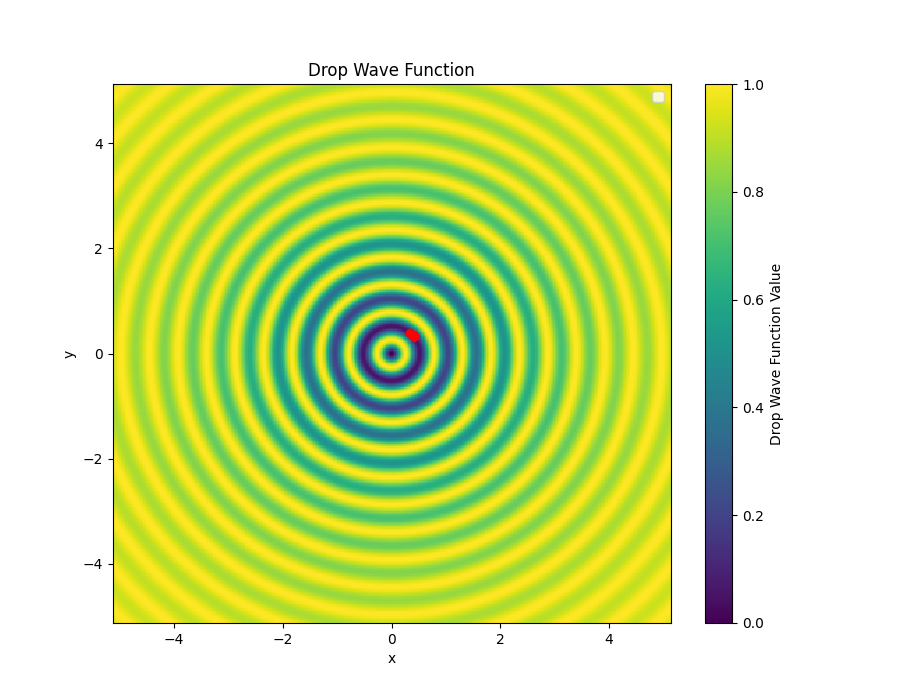
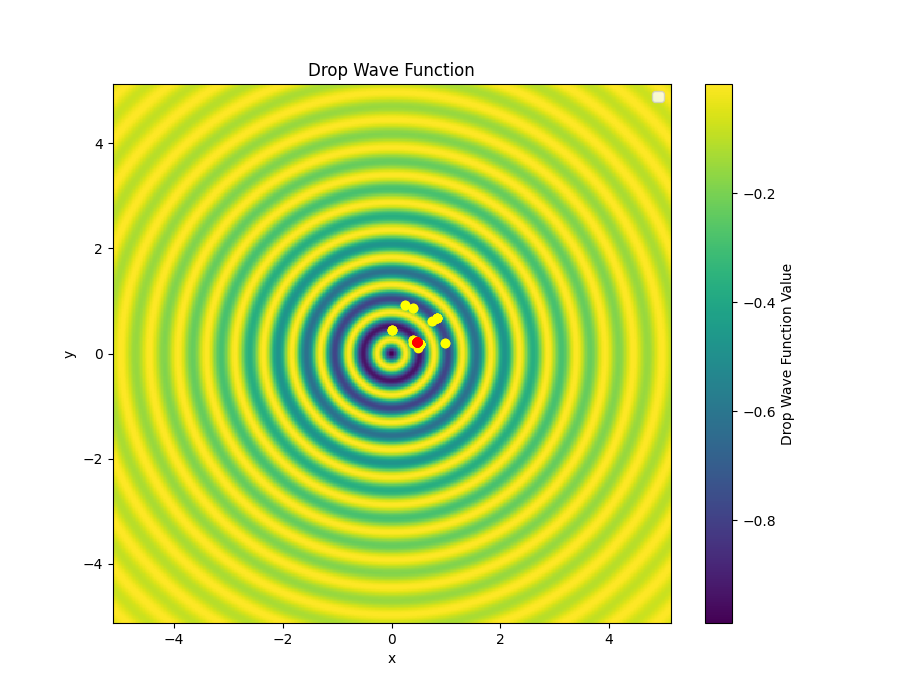
no message

diff --git a/Zadanie2/main.py b/Zadanie2/main.py
@@ -26,14 +26,14 @@ griewank_evolutionary_algorithm = EvolutionaryAlgorithm(griewank_function, 2, 20
 rastrigin_evolutionary_algorithm = EvolutionaryAlgorithm(rastrigin_function, 2, 20, 0.1, 0.2, 8.1, 100)
 
 # run evolutionary algorithms
-drop_wave_best_population = drop_wave_function_evolutionary_algorithm.run()
-griewank_best_population = griewank_evolutionary_algorithm.run()
-rastrigin_best_population = rastrigin_evolutionary_algorithm.run()
+drop_wave_best_populations = drop_wave_function_evolutionary_algorithm.run()
+griewank_best_populations = griewank_evolutionary_algorithm.run()
+rastrigin_best_populations = rastrigin_evolutionary_algorithm.run()
 
 # visualize results
-visualize(drop_wave_function, drop_wave_best_population, "Drop Wave Function")
-visualize(griewank_function, griewank_best_population, "Griewank Function")
-visualize(rastrigin_function, rastrigin_best_population, "Rastrigin Function")
+visualize(drop_wave_function, drop_wave_best_populations, "Drop Wave Function")
+visualize(griewank_function, griewank_best_populations, "Griewank Function")
+visualize(rastrigin_function, rastrigin_best_populations, "Rastrigin Function")
 
 if __name__ == "__main__":
     pass

diff --git a/Zadanie2/plot.py b/Zadanie2/plot.py
@@ -1,7 +1,7 @@
 import matplotlib.pyplot as plt
 import numpy as np
 
-def visualize(f: callable, best_population: [], name: str):
+def visualize(f: callable, generations, name: str):
     plt.figure()
 
     if name == "Drop Wave Function":
@@ -18,8 +18,11 @@ def visualize(f: callable, best_population: [], name: str):
     Z = f([X, Y])
 
     plt.figure(figsize=(9, 7))
+    for i in range(len(generations)):
+        plt.scatter(*zip(*generations[i-1]), color='yellow')
+        plt.scatter(*zip(*generations[-1]), color='red')
+    
     plt.pcolormesh(X, Y, Z, cmap='viridis', shading='auto', zorder=0)
-    plt.scatter(*zip(*best_population), color='red')
     plt.colorbar(label=f'{name} Value')
     plt.title(f'{name}')
     plt.xlabel('x')

diff --git a/Zadanie2/evolutionary_algorithm.py b/Zadanie2/evolutionary_algorithm.py
@@ -65,6 +65,7 @@ class EvolutionaryAlgorithm:
 
 
     def run(self):
+        generations = []
         '''
         1.  Initialize population
         2.  Evaluate each individual (fitness function)
@@ -107,6 +108,7 @@ class EvolutionaryAlgorithm:
             population = self.survivor_selection(population, fitness)
 
             parents = np.array([])
+            generations.append(population)
             print('end')
         
-        return population
+        return generations
